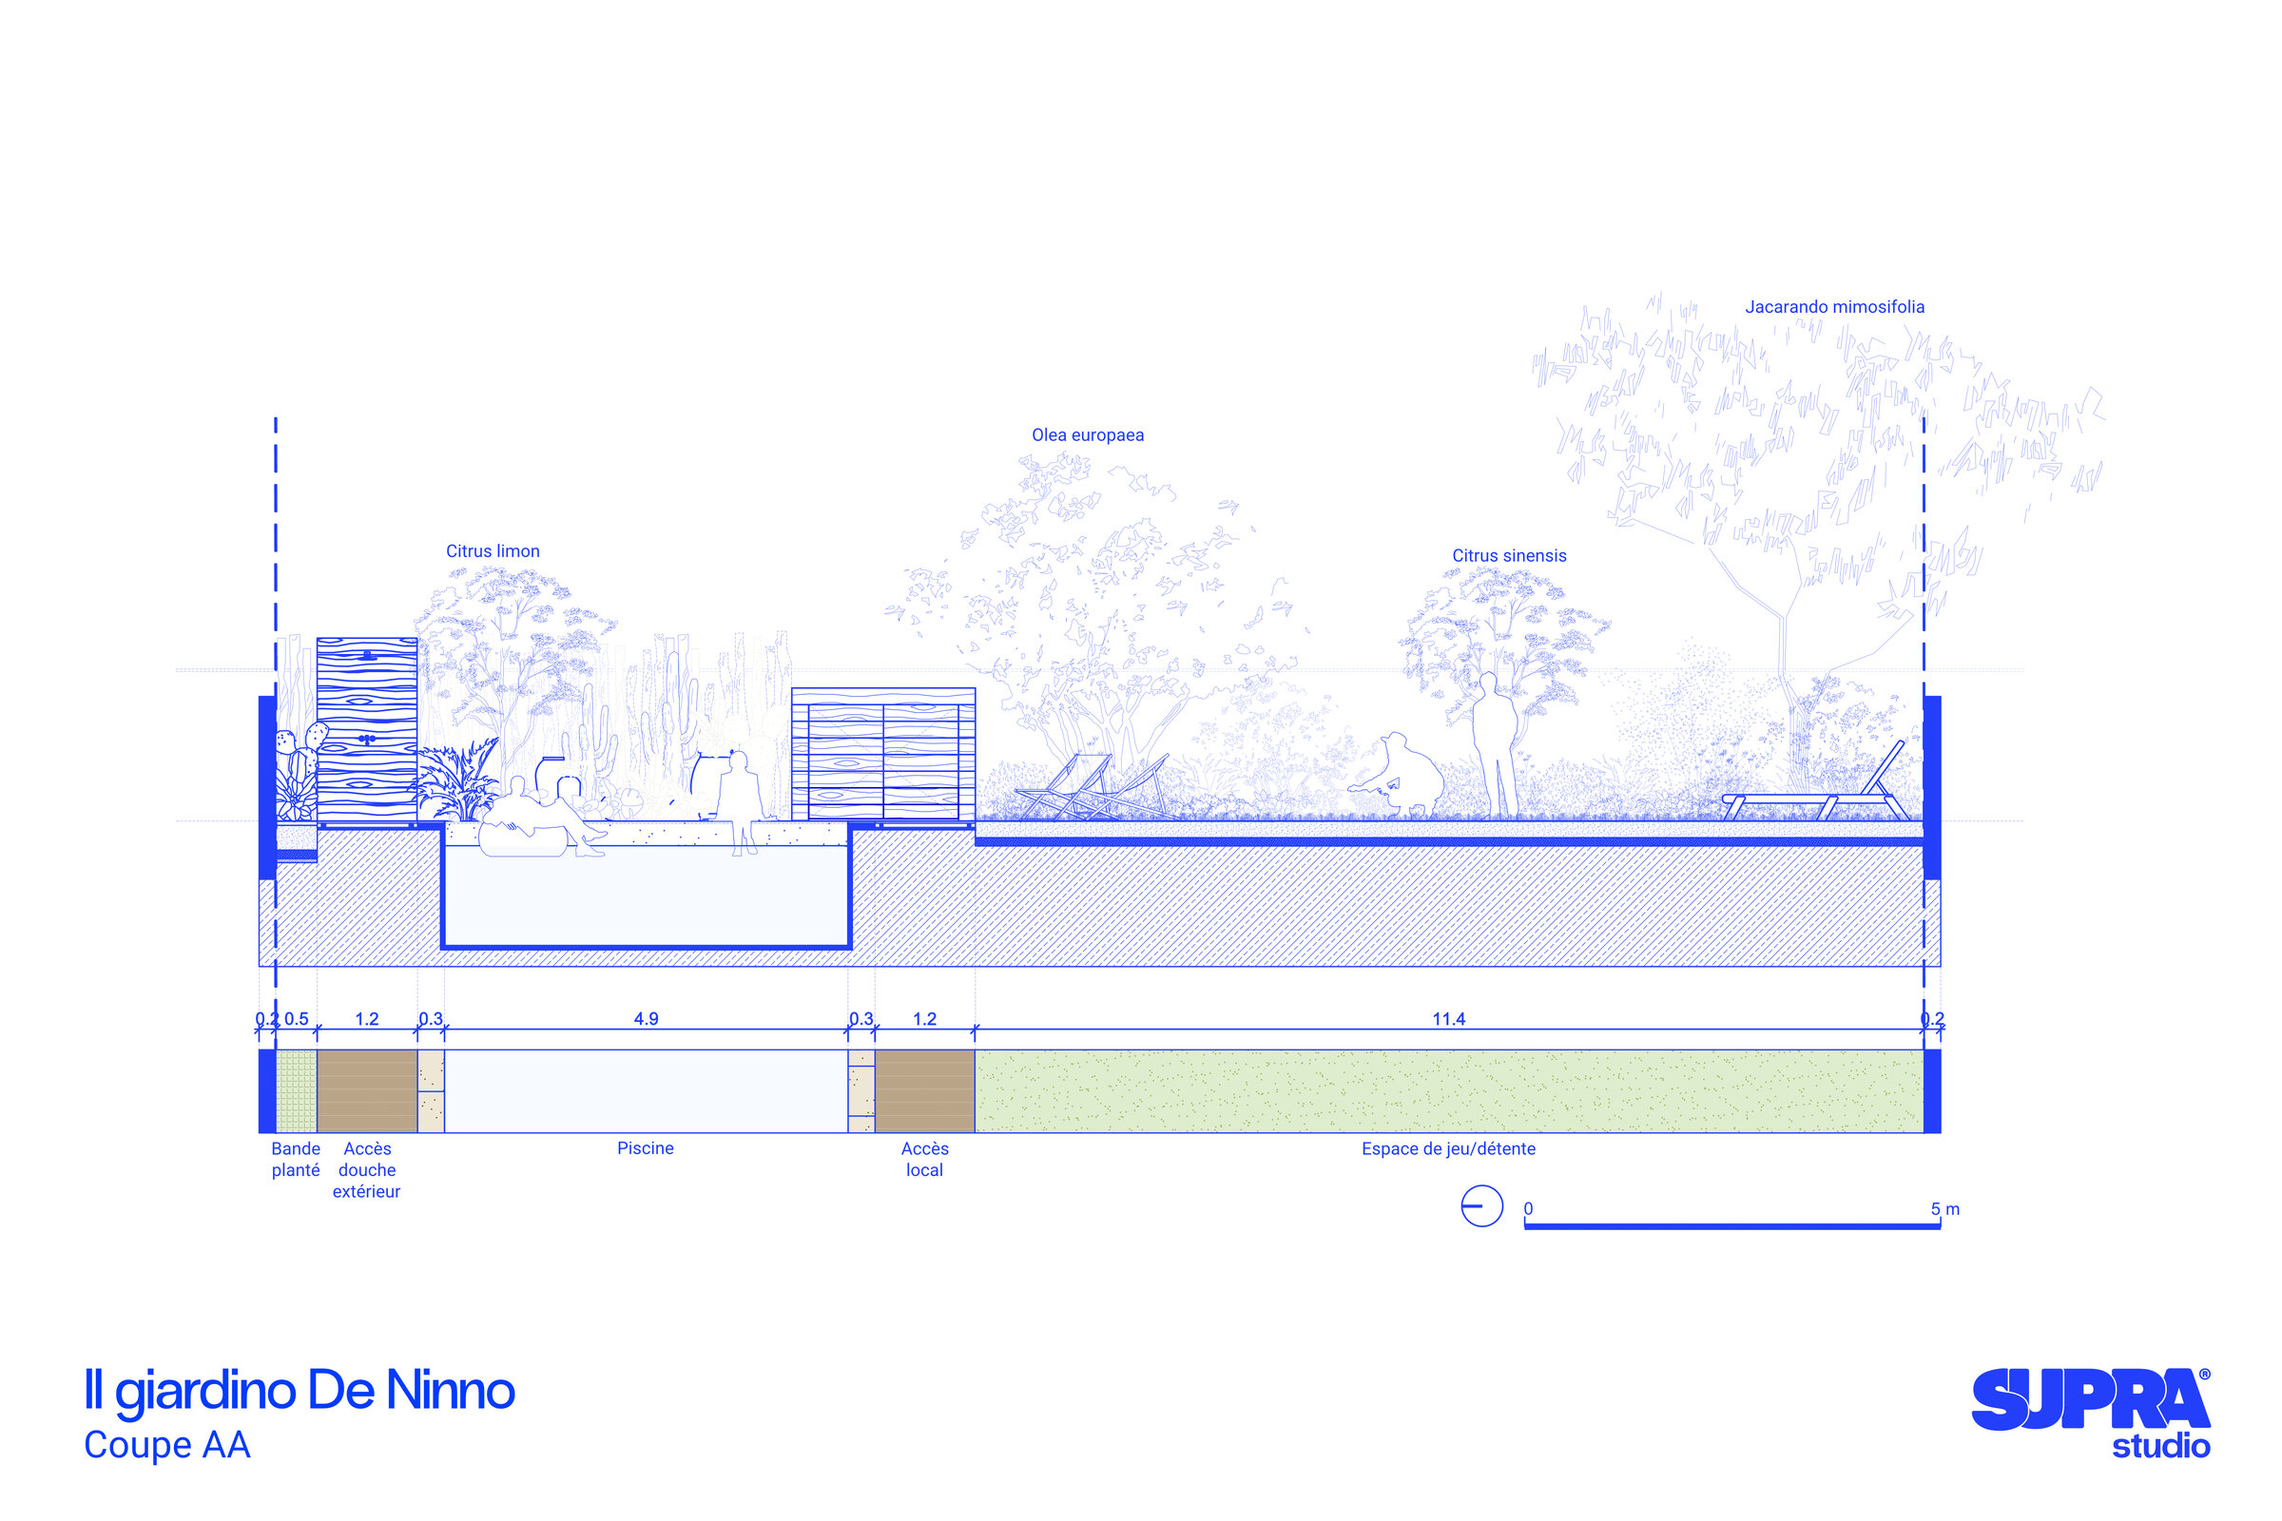
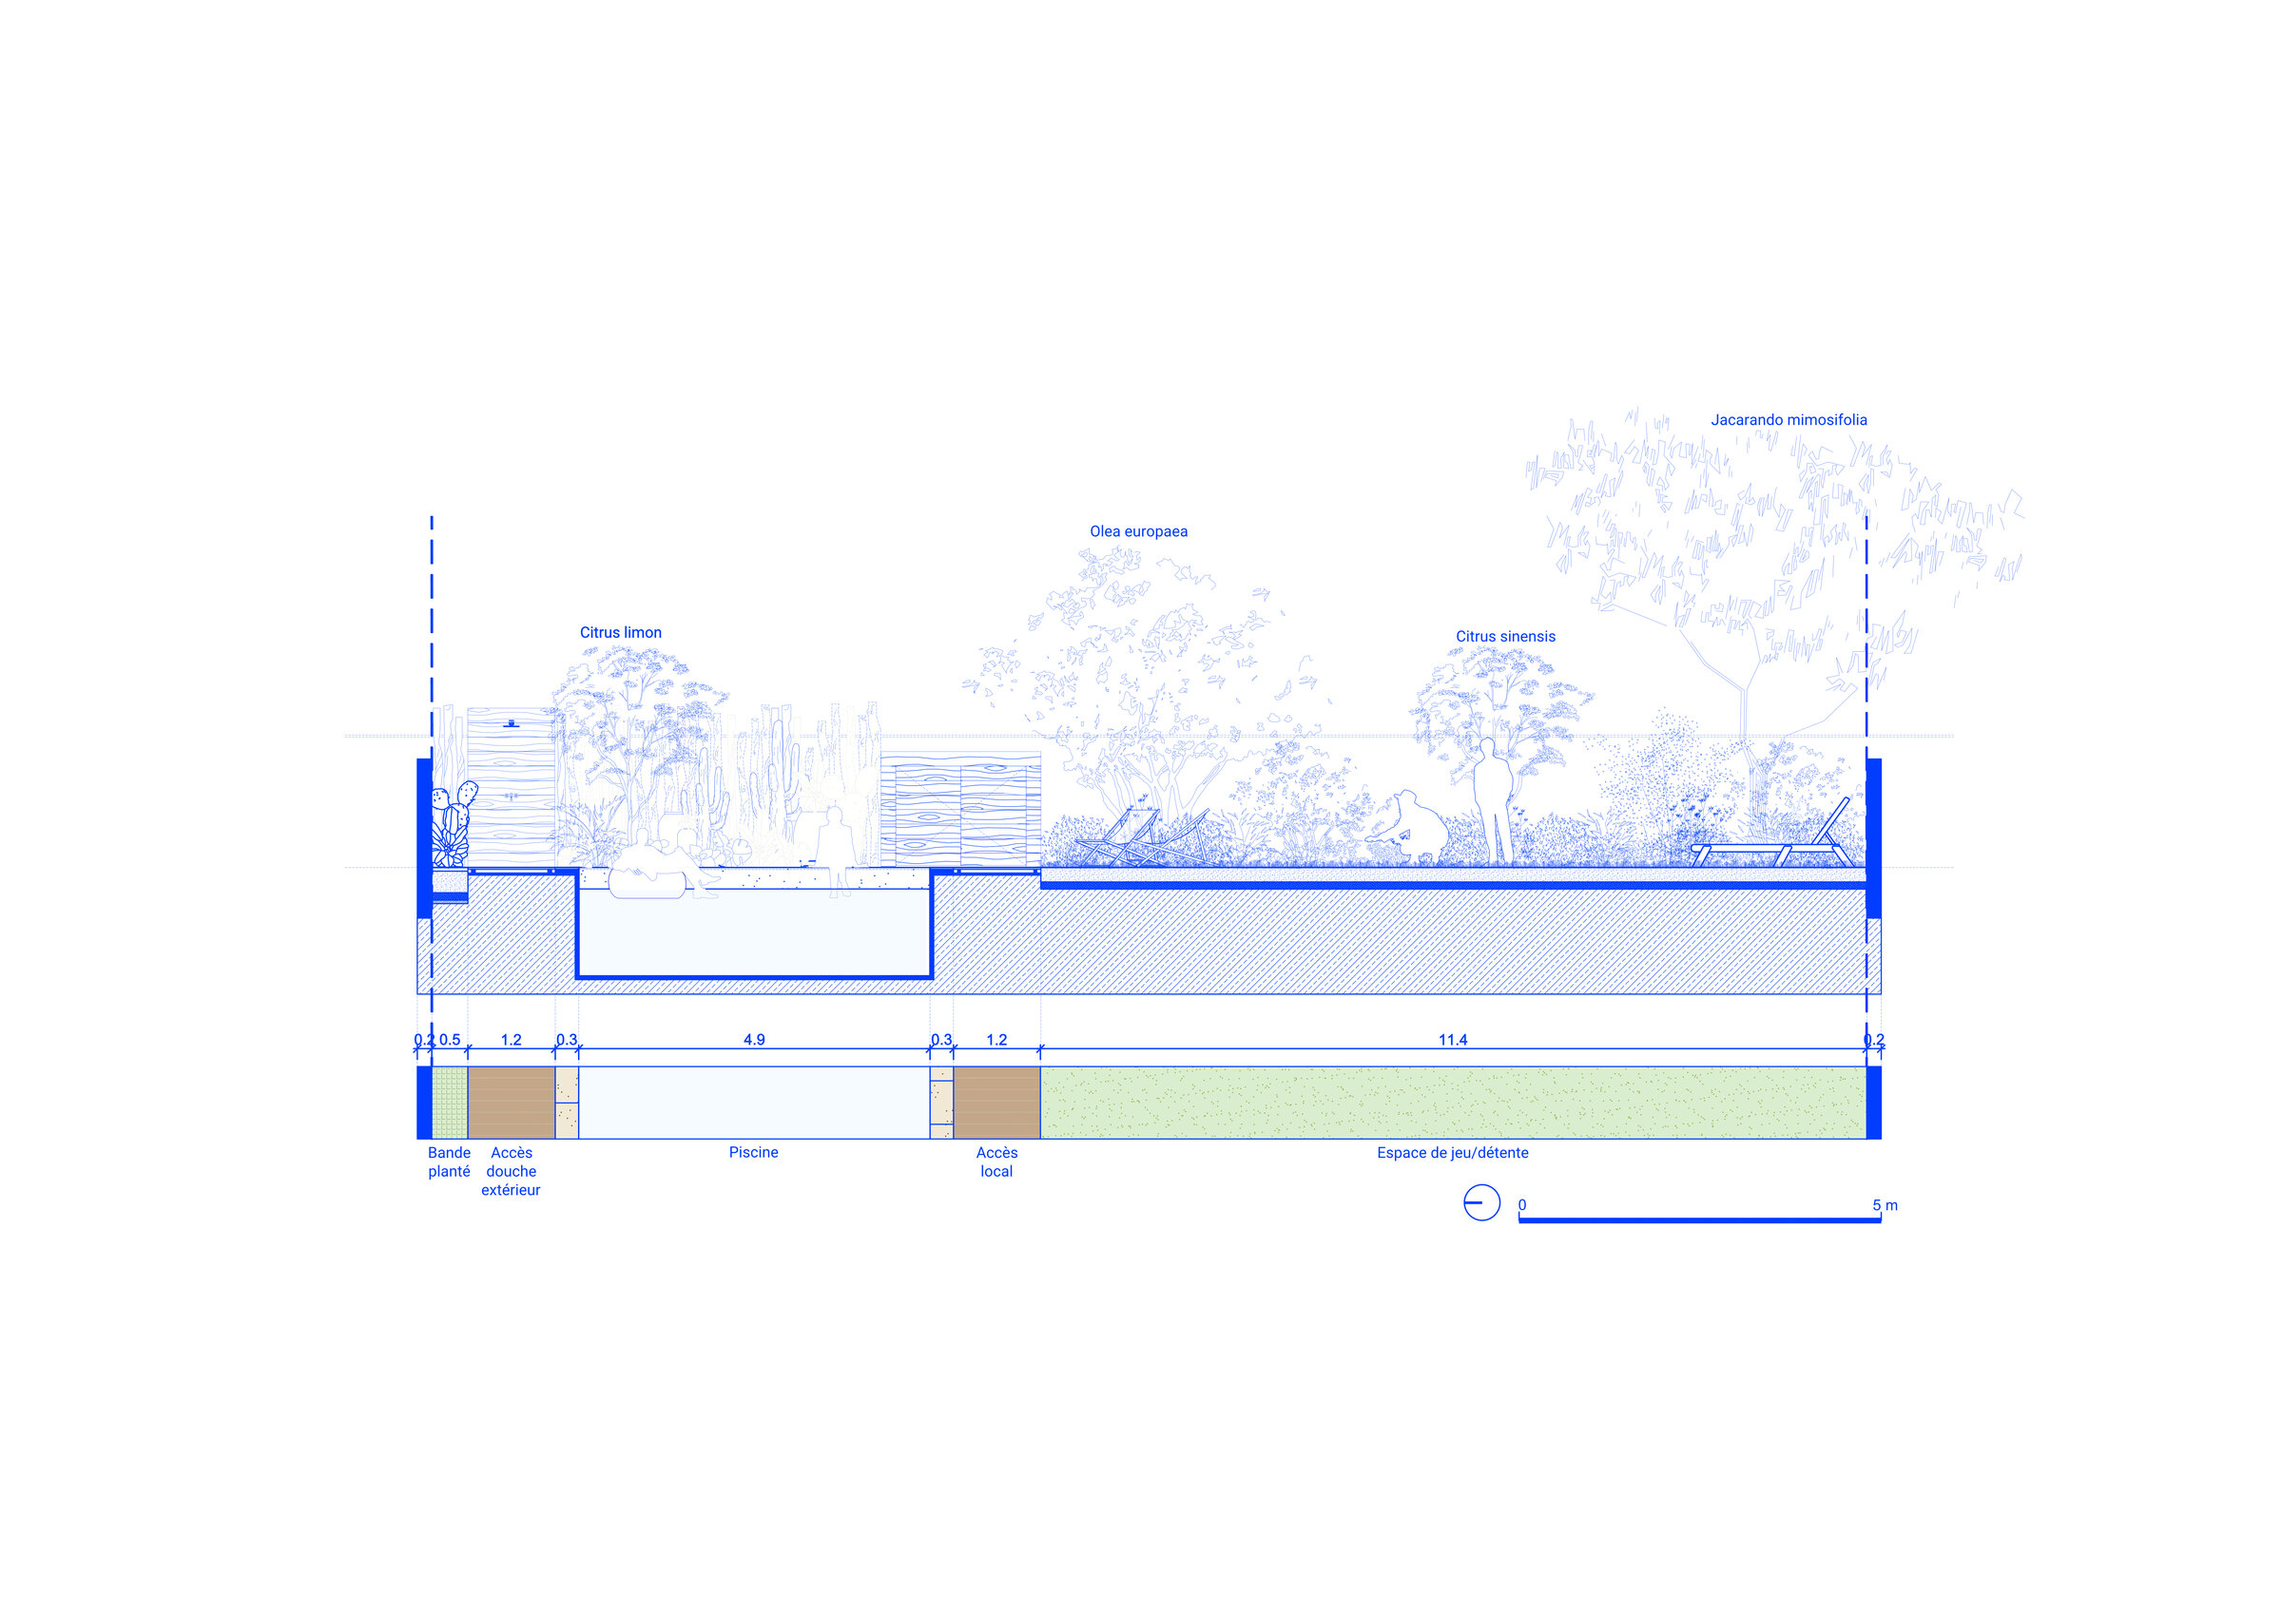
Add files via upload

Changed region(s): [[0.0938, 0.1875, 0.9062, 0.8125], [0.8438, 0.875, 0.9688, 0.9688], [0.0312, 0.9062, 0.2188, 0.9688]]

diff --git a/supra-studio-nextjs/app/globals.css b/supra-studio-nextjs/app/globals.css
@@ -535,9 +535,9 @@ button { font-family: inherit; cursor: pointer; }
 }
 .project-row {
   display: grid;
-  grid-template-columns: 1.4fr 1fr;
+  grid-template-columns: 3fr 1fr;
   gap: clamp(28px, 5vw, 64px);
-  align-items: center;
+  align-items: end;
   margin-bottom: clamp(48px, 6vw, 80px);
 }
 .project-row:last-child { margin-bottom: 0; }
@@ -669,11 +669,26 @@ button { font-family: inherit; cursor: pointer; }
 }
 
 .project-others {
-  padding: clamp(24px, 3vw, 40px) 0 var(--section-pad);
+  padding: clamp(20px, 2.6vw, 32px) 0 clamp(56px, 7vw, 88px);
   border-top: 1px solid var(--bleu-line);
   margin-top: clamp(24px, 3vw, 40px);
 }
-.project-others .projects-stack { margin-top: 28px; }
+.project-others .projects-stack {
+  margin-top: 20px;
+  display: grid;
+  grid-template-columns: repeat(2, 1fr);
+  gap: clamp(10px, 1.4vw, 18px);
+}
+.project-others .project-teaser {
+  aspect-ratio: 4/3;
+}
+.project-others .project-teaser .info { padding: 14px 16px; }
+.project-others .project-teaser .info .cat { font-size: 10px; }
+.project-others .project-teaser .info .name { font-size: 15px; }
+.project-others .project-teaser .info .location { font-size: 11px; }
+@media (max-width: 700px) {
+  .project-others .projects-stack { grid-template-columns: 1fr; }
+}
 
 
 .page-hero {
